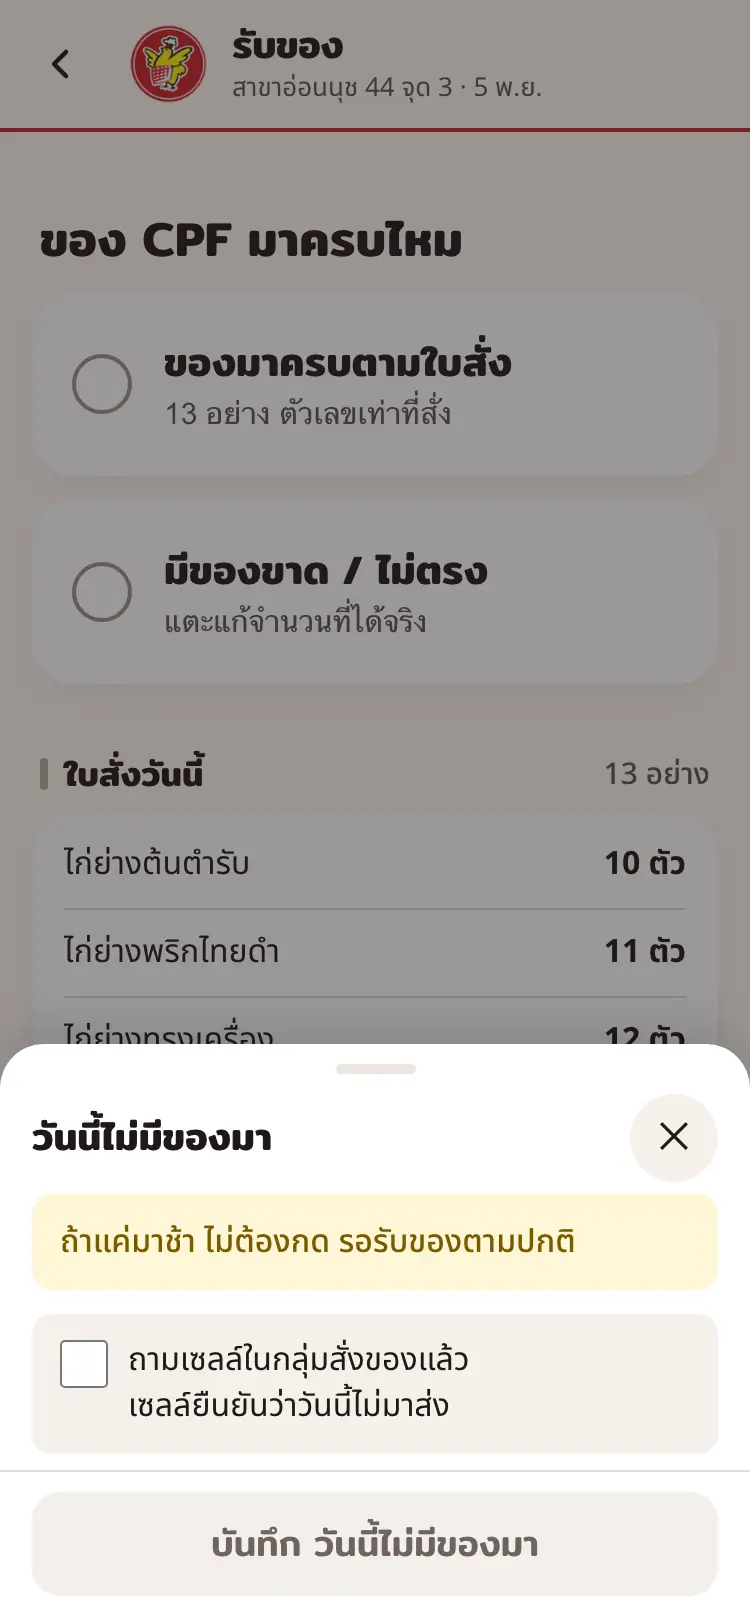
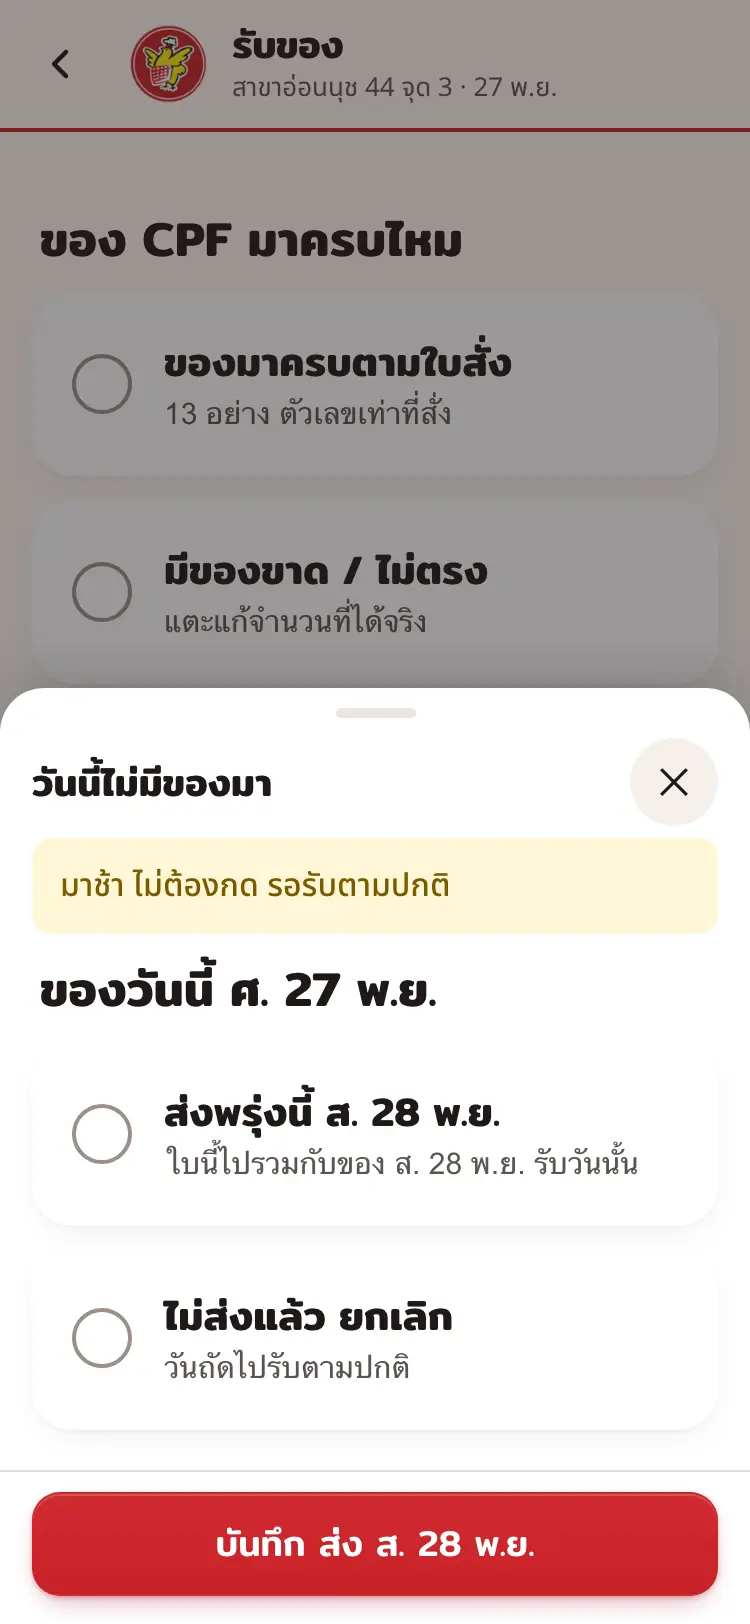
manual: receive two orders, owner-bought goods, expense bill photos (main f17f9fd)

diff --git a/manual.html b/manual.html
@@ -1,5 +1,5 @@
 <!doctype html><html lang="th"><head><meta charset="utf-8"><meta name="viewport" content="width=device-width, initial-scale=1, viewport-fit=cover">
-<title>คู่มือพนักงาน</title><meta name="manual-ver" content="2026-11-06 00:56"><meta name="theme-color" content="#C82128">
+<title>คู่มือพนักงาน</title><meta name="manual-ver" content="2026-11-27 23:13"><meta name="theme-color" content="#C82128">
 <link rel="icon" type="image/png" href="img/logo-96.png"><link rel="apple-touch-icon" href="img/apple-touch-icon.png">
 <link rel="preconnect" href="https://fonts.googleapis.com"><link rel="preconnect" href="https://fonts.gstatic.com" crossorigin>
 <link rel="stylesheet" href="https://fonts.googleapis.com/css2?family=Mitr:wght@400;500;600&family=Noto+Sans+Thai:wght@400;500;700&display=swap">
@@ -164,11 +164,29 @@
       <div class="slide"><p class="tag"><span>เลือกก่อน</span><i>1/5</i></p><figure class="shot"><img src="img/manual/s-rec-1.webp" alt="หน้ารับของ ตัวเลือกของมาครบตามใบสั่ง และมีของขาดไม่ตรง" width="750" height="1624"></figure><p class="cap2">เลือก: ครบ หรือ ขาด</p></div>
       <div class="slide"><p class="tag"><span>แบบ 1 ของมาครบ</span><i>2/5</i></p><figure class="shot"><img src="img/manual/s-rec-2.webp" alt="หน้ารับของ เลือกของมาครบ ปุ่มบันทึกของมาครบ 13 อย่าง" width="750" height="1624"></figure><p class="cap2">ถ่ายใบส่งของ กดบันทึก<small>ไม่ถ่าย บันทึกไม่ได้</small></p></div>
       <div class="slide"><p class="tag"><span>แบบ 2 ของขาด / ไม่ตรง</span><i>3/5</i></p><figure class="shot"><img src="img/manual/s-rec-3.webp" alt="หน้ารับของ เลือกมีของขาด ช่องแก้จำนวนแต่ละแถว" width="750" height="1624"></figure><p class="cap2">แก้แถวที่ไม่ตรง</p></div>
-      <div class="slide"><p class="tag"><span>แบบ 3 ไม่มีของมา</span><i>4/5</i></p><figure class="shot"><img src="img/manual/s-rec-4.webp" alt="แผ่นวันนี้ไม่มีของมา ช่องติ๊กถามเซลล์แล้ว" width="750" height="1624"></figure><p class="cap2">ถามเซลล์ก่อน แล้วติ๊ก</p></div>
+      <div class="slide"><p class="tag"><span>แบบ 3 ไม่มีของมา</span><i>4/5</i></p><figure class="shot"><img src="img/manual/s-rec-4.webp" alt="แผ่นวันนี้ไม่มีของมา ตัวเลือกส่งพรุ่งนี้ กับไม่ส่งแล้ว ยกเลิก ปุ่มบันทึก ส่ง ส. 28 พ.ย." width="750" height="1624"></figure><p class="cap2">ถามเซลล์ก่อน เลือกตามที่เซลล์บอก<small>มาช้า ไม่ต้องกด รอรับตามปกติ</small></p></div>
       <div class="slide"><p class="tag"><span>แบบ 4 ของนอกใบสั่ง</span><i>5/5</i></p><figure class="shot"><img src="img/manual/s-rec-5.webp" alt="แผ่นมีของอื่นมาด้วย ช่องเลือกสินค้าและจำนวนที่ได้มา" width="750" height="1624"></figure><p class="cap2">เลือกของ ใส่จำนวน</p></div>
     </div>
     <p class="swipe">ปัดซ้ายขวาดูรูปถัดไป</p>
-    <p class="hint">ปุ่ม "วันนี้ไม่มีของมา" กับ "+ มีของอื่นมาด้วย" อยู่ล่างสุดของหน้า เลื่อนลงไปหา<br>วันที่มีของมา ต้องถ่ายใบส่งของทุกครั้ง ไม่ถ่ายบันทึกไม่ได้<br>ถ่ายได้ถึง 3 รูป<br>CPF ส่งของอื่นมาแทน หาในรายการ "เลิกขายแล้ว"<br>รับของแล้ว แก้ตัวเลขได้จนกว่าจะปิดร้าน</p>
+    <p class="hint">ปุ่ม "วันนี้ไม่มีของมา" กับ "+ มีของอื่นมาด้วย" อยู่ล่างสุดของหน้า เลื่อนลงไปหา<br>วันที่มีของมา ต้องถ่ายใบส่งของทุกครั้ง ไม่ถ่ายบันทึกไม่ได้<br>ถ่ายได้ถึง 3 รูป<br>ไม่มีของมา เลือก "ส่งพรุ่งนี้" หรือ "ไม่ส่งแล้ว ยกเลิก" ตามที่เซลล์บอก<br>วันอาทิตย์ปุ่มขึ้น "ส่งวันถัดไป" (ข้ามวันจันทร์)<br>CPF ส่งของอื่นมาแทน หาในรายการ "เลิกขายแล้ว"<br>รับของแล้ว แก้ตัวเลขได้จนกว่าจะปิดร้าน</p>
+    <h3>วันนี้ของมา 2 ใบ</h3>
+    <div class="strip" role="region" tabindex="0" aria-label="ตัวอย่างหน้าจอ รับของ 2 ใบ 3 รูป ปัดซ้ายขวาดูรูปถัดไป">
+      <div class="slide"><p class="tag"><span>เลือกใบ</span><i>1/3</i></p><figure class="shot"><img src="img/manual/s-rec-6.webp" alt="หน้ารับของ ของวันนี้ 2 ใบ ใบของ พฤ. 26 พ.ย. เลื่อนมาวันนี้ และใบของวันนี้ ศ. 27 พ.ย." width="750" height="1624"></figure><p class="cap2">แตะใบที่จะรับก่อน</p></div>
+      <div class="slide"><p class="tag"><span>รับใบนั้น</span><i>2/3</i></p><figure class="shot"><img src="img/manual/s-rec-7.webp" alt="แถบเขียว ใบของ พฤ. 26 พ.ย. เลื่อนมาวันนี้ ปุ่มเปลี่ยนใบ และคำถามของ CPF มาครบไหม" width="750" height="1624"></figure><p class="cap2">รับเหมือนปกติ ถ่ายใบส่งของของใบนั้น<small>เลือกผิด กด "เปลี่ยนใบ"</small></p></div>
+      <div class="slide"><p class="tag"><span>ใบถัดไป</span><i>3/3</i></p><figure class="shot"><img src="img/manual/s-rec-8.webp" alt="ของวันนี้ รับแล้ว 1 จาก 2 ใบ ใบแรกมีเครื่องหมายถูก รับแล้ว 18:05" width="750" height="1624"></figure><p class="cap2">รับแล้วขึ้น ✓ แตะใบที่เหลือ</p></div>
+    </div>
+    <p class="swipe">ปัดซ้ายขวาดูรูปถัดไป</p>
+    <p class="hint">ใบของวันก่อนที่ CPF เลื่อนมา จะขึ้นว่า "เลื่อนมาวันนี้"<br>รับให้ครบทุกใบ ถึงจะปิดร้านได้<br>ใบไหนไม่มา เปิดใบนั้น กด "ใบนี้ไม่มา" ล่างสุดของหน้า</p>
+    <h3>ของที่เจ้าของสั่ง</h3>
+    <div class="strip" role="region" tabindex="0" aria-label="ตัวอย่างหน้าจอ ของที่เจ้าของสั่ง 5 รูป ปัดซ้ายขวาดูรูปถัดไป">
+      <div class="slide"><p class="tag"><span>หน้าแรก</span><i>1/5</i></p><figure class="shot"><img src="img/manual/s-rec-9.webp" alt="หน้าแรก ปุ่มข้าวเหนียวดิบ 35 กก. เจ้าของสั่ง มาวันนี้ มาถึงแล้วกดรับ" width="750" height="1624"></figure><p class="cap2">ของมาถึง แตะปุ่มนี้</p></div>
+      <div class="slide"><p class="tag"><span>ของมาครบ</span><i>2/5</i></p><figure class="shot"><img src="img/manual/s-rec-10.webp" alt="หน้ารับของ กล่องของที่เจ้าของสั่ง มาวันนี้ ข้าวเหนียวดิบ 35 กก. ปุ่มรับข้าวเหนียวดิบ 35 กก." width="750" height="1624"></figure><p class="cap2">ชั่งหรือนับ ครบแล้วกดรับ</p></div>
+      <div class="slide"><p class="tag"><span>ของมาไม่ครบ</span><i>3/5</i></p><figure class="shot"><img src="img/manual/s-rec-11.webp" alt="แก้เป็น 28 กก. ป้ายขาด 7 กก. ระบบจะบอกเจ้าของให้ ปุ่มรับข้าวเหนียวดิบ 28 กก." width="750" height="1624"></figure><p class="cap2">ได้ไม่ครบ แก้ตัวเลขก่อนกด<small>แอปบอกเจ้าของให้เอง</small></p></div>
+      <div class="slide"><p class="tag"><span>รับแล้ว</span><i>4/5</i></p><figure class="shot"><img src="img/manual/s-rec-12.webp" alt="ป้ายรับแล้ว 28 กก. เข้าสต็อกวันนี้แล้ว ปุ่มแก้จำนวน" width="750" height="1624"></figure><p class="cap2">ใส่ผิด กด "แก้จำนวน"</p></div>
+      <div class="slide"><p class="tag"><span>ปิดร้าน</span><i>5/5</i></p><figure class="shot"><img src="img/manual/s-rec-13.webp" alt="หน้าปิดร้าน ขั้น 1 กล่องเหลือง ข้าวเหนียวดิบ 35 กก. ยังไม่ได้กดรับ ลิงก์ไปกดรับก่อนนับ" width="750" height="1624"></figure><p class="cap2">ยังไม่กดรับ ปิดร้านจะเตือน</p></div>
+    </div>
+    <p class="swipe">ปัดซ้ายขวาดูรูปถัดไป</p>
+    <p class="hint">ของที่เจ้าของซื้อเอง เช่น ข้าวเหนียวดิบจาก Makro หรือของจาก Shopee<br>ไม่ต้องถ่ายใบส่งของ<br>ยังไม่มาส่ง ไม่ต้องกด พรุ่งนี้ยังขึ้นให้กดอยู่<br>มาแล้วแต่ยังไม่กด ตอนปิดร้านจะขึ้นกล่องเหลือง กด "ไปกดรับก่อนนับ"</p>
   </div>
 </details>
 
@@ -260,13 +278,14 @@
 <details class="sec no-mgr">
   <summary><span class="n">7</span><h2>ลงรายจ่าย</h2><span class="ux-go" aria-hidden="true">›</span></summary>
   <div class="mn-in">
-    <div class="strip" role="region" tabindex="0" aria-label="ตัวอย่างหน้าจอ ลงรายจ่าย 3 รูป ปัดซ้ายขวาดูรูปถัดไป">
-      <div class="slide"><p class="tag"><span>ลงรายจ่าย</span><i>1/3</i></p><figure class="shot"><img src="img/manual/s-exp-1.webp" alt="หน้ารายจ่าย ติ๊กถุงร้อน 6×9 กับทิชชู่ ปุ่มแดงล่าง ใส่ราคา 2 รายการ" width="750" height="1624"></figure><p class="cap2">ติ๊กของที่ซื้อ กดปุ่มแดง</p></div>
-      <div class="slide"><p class="tag"><span>ลงรายจ่าย</span><i>2/3</i></p><figure class="shot"><img src="img/manual/s-exp-2.webp" alt="แผ่นลงรายจ่าย 2 รายการ ถุงร้อน 120 บาท ทิชชู่ 85 บาท รวมทั้งบิล 205 บาท จ่ายด้วยเงินสดหน้าร้าน มีรูปใบเสร็จ" width="750" height="1624"></figure><p class="cap2">ใส่ราคา ถ่ายใบเสร็จ กดบันทึก</p></div>
-      <div class="slide"><p class="tag"><span>ลงแล้ววันนี้</span><i>3/3</i></p><figure class="shot"><img src="img/manual/s-exp-3.webp" alt="แท็บลงแล้ววันนี้ รวม 685 บาท เงินสดหน้าร้าน 205 เจ้าของโอนจ่าย 480 ของบิลเดียวกันอยู่กล่องเดียว" width="750" height="1624"></figure><p class="cap2">ดูที่ลงแล้ววันนี้</p></div>
+    <div class="strip" role="region" tabindex="0" aria-label="ตัวอย่างหน้าจอ ลงรายจ่าย 4 รูป ปัดซ้ายขวาดูรูปถัดไป">
+      <div class="slide"><p class="tag"><span>ข้อ 1 ติ๊กของ</span><i>1/4</i></p><figure class="shot"><img src="img/manual/s-exp-1.webp" alt="หน้ารายจ่าย ติ๊กถุงร้อน 6×9 กับทิชชู่ ปุ่มแดงล่าง ใส่ราคา 2 รายการ" width="750" height="1624"></figure><p class="cap2">ติ๊กทุกอย่างที่ซื้อรอบนี้ กดปุ่มแดง</p></div>
+      <div class="slide"><p class="tag"><span>ข้อ 2 ใส่ราคา</span><i>2/4</i></p><figure class="shot"><img src="img/manual/s-exp-4.webp" alt="แผ่นลงรายจ่าย 2 รายการ ถุงร้อน 120 บาท ทิชชู่ 85 บาท รวมทั้งบิล 205 บาท ยังไม่มีรูป ขึ้นแดง ถ่ายใบเสร็จก่อน" width="750" height="1624"></figure><p class="cap2">ใส่ราคาทีละแถว<small>ไม่ถ่ายใบเสร็จ บันทึกไม่ได้</small></p></div>
+      <div class="slide"><p class="tag"><span>ข้อ 3 ถ่ายใบเสร็จ</span><i>3/4</i></p><figure class="shot"><img src="img/manual/s-exp-2.webp" alt="แผ่นลงรายจ่าย จ่ายด้วยเงินสดหน้าร้าน มีรูปใบเสร็จ 1 รูป ปุ่มบันทึก 2 รายการ" width="750" height="1624"></figure><p class="cap2">ถ่ายใบเสร็จ 1 รูป ใช้ทั้งบิล กดบันทึก</p></div>
+      <div class="slide"><p class="tag"><span>ลงแล้ววันนี้</span><i>4/4</i></p><figure class="shot"><img src="img/manual/s-exp-3.webp" alt="แท็บลงแล้ววันนี้ รวม 685 บาท ของบิลเดียวกันอยู่กล่องเดียว" width="750" height="1624"></figure><p class="cap2">ดูที่ลงแล้ววันนี้</p></div>
     </div>
     <p class="swipe">ปัดซ้ายขวาดูรูปถัดไป</p>
-    <p class="hint">ซื้อรอบเดียวหลายอย่าง ติ๊กให้ครบ ลงเป็นบิลเดียว รูปเดียว<br>ไม่มีใบเสร็จ ถ่ายของที่ซื้อแทน<br>เงินสดหน้าร้าน ถูกหักออกจาก "ควรมีในลิ้นชัก" ตอนปิดร้าน<br>บิล CPF กับเงินเดือน แอปคิดให้ ไม่ต้องลง<br>ลงผิด กด ✕ ที่แถวนั้น ลบได้ มีปุ่มเลิกทำ<br>ลบได้เฉพาะรายการของเรา ก่อนปิดร้าน</p>
+    <p class="hint">ซื้อรอบเดียวหลายอย่าง ติ๊กให้ครบ ลงเป็นบิลเดียว รูปเดียว<br>ทุกบิลต้องมีรูป ไม่มีใบเสร็จ ถ่ายของที่ซื้อแทน<br>จ่ายด้วย เลือก "เงินสดหน้าร้าน" หรือ "เจ้าของโอนจ่าย" ครั้งเดียวทั้งบิล<br>เงินสดหน้าร้าน ถูกหักออกจาก "ควรมีในลิ้นชัก" ตอนปิดร้าน<br>บิล CPF กับเงินเดือน แอปคิดให้ ไม่ต้องลง<br>ลงผิด กด ✕ ที่แถวนั้น ลบได้ มีปุ่มเลิกทำ<br>ลบได้เฉพาะรายการของเรา ก่อนปิดร้าน</p>
   </div>
 </details>
 
@@ -340,7 +359,9 @@
       <div><b>เลย 22:00 น. แล้ว</b><span>ยังต้องปิดร้าน แล้วบอกในกลุ่มพนักงาน เจ้าของจะจัดการใบสั่งเอง<br>ปิดหลังเที่ยงคืนก็ได้ ยังนับเป็นวันเดิม จนถึงตี 5</span></div>
       <div><b>กรอกผิดหลังปิดร้าน</b><span>แจ้งปัญหา เลือก "กรอกผิด ขอแก้" บอกว่าผิดตัวไหน ที่ถูกเท่าไหร่</span></div>
       <div><b>ขึ้นว่า "ยังไม่มีสิทธิ์ใช้แอป"</b><span>เช็กว่ายังอยู่ในกลุ่มพนักงานไหม ถ้าหลุด บอกเจ้าของดึงกลับ แล้วกด "ฉันเป็นพนักงาน"</span></div>
-      <div><b>ของไม่มาตามเวลา</b><span>ถามเซลล์ในกลุ่มสั่งของ ไม่มาจริง กดรับของ "วันนี้ไม่มีของมา" แล้วเลือกตามที่เซลล์บอก: ส่งวันถัดไป (ของใบนี้ไปรวมวันนั้น วันนั้นรับ 2 ใบ ทีละใบ ถ่ายใบส่งของแยกใบ) หรือ ไม่ส่งแล้ว ยกเลิก · ถ้า CPF รวมมาเป็นใบส่งของใบเดียว ให้รับใบของวันนี้แล้วใส่ของที่เกินใน "+ มีของอื่นมาด้วย" และกดอีกใบว่า ไม่มา ยกเลิก</span></div>
+      <div><b>ของไม่มาตามเวลา</b><span>ถามเซลล์ในกลุ่มสั่งของ มาช้า รอรับตามปกติ<br>ไม่มาจริง กดรับของ "วันนี้ไม่มีของมา" แล้วเลือกตามที่เซลล์บอก<br>"ส่งพรุ่งนี้" หรือ "ส่งวันถัดไป" ใบนี้ไปรวมวันนั้น วันนั้นรับ 2 ใบ ทีละใบ<br>"ไม่ส่งแล้ว ยกเลิก" วันถัดไปรับตามปกติ</span></div>
+      <div><b>CPF รวม 2 ใบมาเป็นใบส่งของใบเดียว</b><span>รับใบของวันนี้ ของที่เกินใส่ใน "+ มีของอื่นมาด้วย"<br>แล้วเปิดอีกใบ กด "ใบนี้ไม่มา" เลือก "ไม่ส่งแล้ว ยกเลิก"</span></div>
+      <div><b>ของที่เจ้าของสั่งมาไม่ครบ</b><span>แก้ตัวเลขเป็นที่ได้จริง แล้วกดรับ แอปบอกเจ้าของให้เอง</span></div>
       <div><b>ของ CPF มาผิดตัว</b><span>รับของตามที่มาจริง ของที่ไม่อยู่ในใบสั่ง กด "+ มีของอื่นมาด้วย"<br>แล้วแจ้งปัญหา เลือก "ของ CPF มาผิด" ถ่ายรูป</span></div>
       <div><b>ขึ้นว่า "นับได้มากกว่าที่มี"</b><span>เลขที่ใส่ รวมสด สุก เสีย มากกว่าของที่มีวันนี้ (ยกมา กับ รับเข้า)<br>พิมพ์ผิด กด "กลับไปแก้ตัวเลข"<br>ของมีจริง กด "ของมีจริง ไปต่อ"<br>ข้าวเหนียวห่อ ห่อเพิ่ม กด "ห่อข้าวเหนียวเสร็จ" ก่อน<br>ใส่เลขติดลบไม่ได้</span></div>
       <div><b>ขึ้นว่า "เปิดไม่ขึ้น"</b><span>กด "ลองอีกครั้ง" ถ้าไม่มีปุ่ม ให้ปิดหน้าแล้วเข้าใหม่<br>ยังไม่ได้ ย้ายไปที่สัญญาณดีกว่า ถ้ายังไม่ได้ บอกในกลุ่มพนักงาน</span></div>
